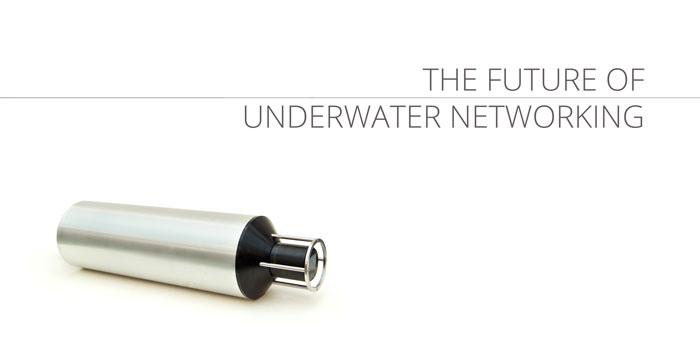
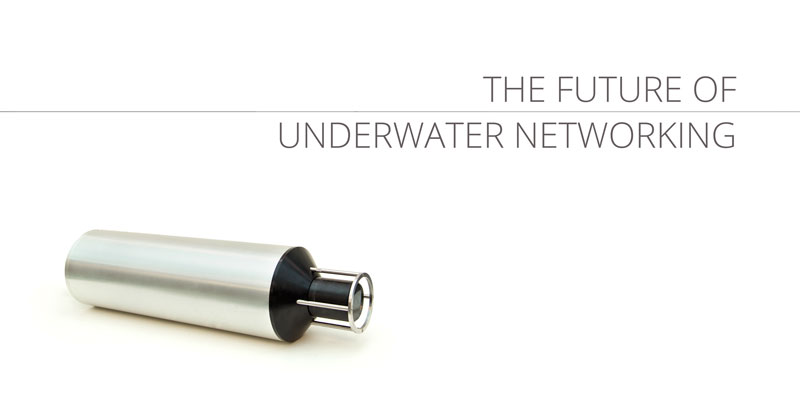
Updated images on homepage & removed shadow

diff --git a/contact/index.html b/contact/index.html
@@ -2,4 +2,4 @@
 layout: default
 title: Contact Us
 ---
-Contact Us
+<div style="width:500px;height:500px"><iframe width="500" height="500" frameborder="0" scrolling="no" marginheight="0" marginwidth="0" src="http://maps.google.com/maps?f=q&source=s_q&hl=en&geocode=&q=4%2BEngineering%2BDrive%2B3%2BSingapore%2B117583&ie=UTF8&z=17&t=m&iwloc=near&output=embed"></iframe><br><table width="500" cellpadding="0" cellspacing="0" border="0"><tr><td align="left"><small><a href="http://maps.google.com/maps?f=q&source=s_q&hl=en&geocode=&q=4%2BEngineering%2BDrive%2B3%2BSingapore%2B117583&ie=UTF8&z=17&t=m&iwloc=near">View Larger Map</a></small></td><td align="right"><small><a href="http://www.embedgooglemap.com">embed google map</a></small></td></tr></table></div>

diff --git a/css/main.css b/css/main.css
@@ -143,11 +143,11 @@ div#footer{
 
 .fadein { 
   position:relative; 
-  height:350px; 
-  width:700px; 
+  height:400px; 
+  width:800px; 
   margin-left: auto ; 
   margin-right: auto;
-  box-shadow: 1px 1px 15px  #bbbbbb;
+  /*box-shadow: 1px 1px 15px  #bbbbbb;*/
   padding: 0px;
  }
 

diff --git a/index.html b/index.html
@@ -10,7 +10,7 @@ $(function(){
 		$('.fadein :first-child').fadeOut(1000)
 			.next('img').fadeIn(1000)
 			.end().appendTo('.fadein');},
-		8000);
+		10000);
 });
 
 </script>
